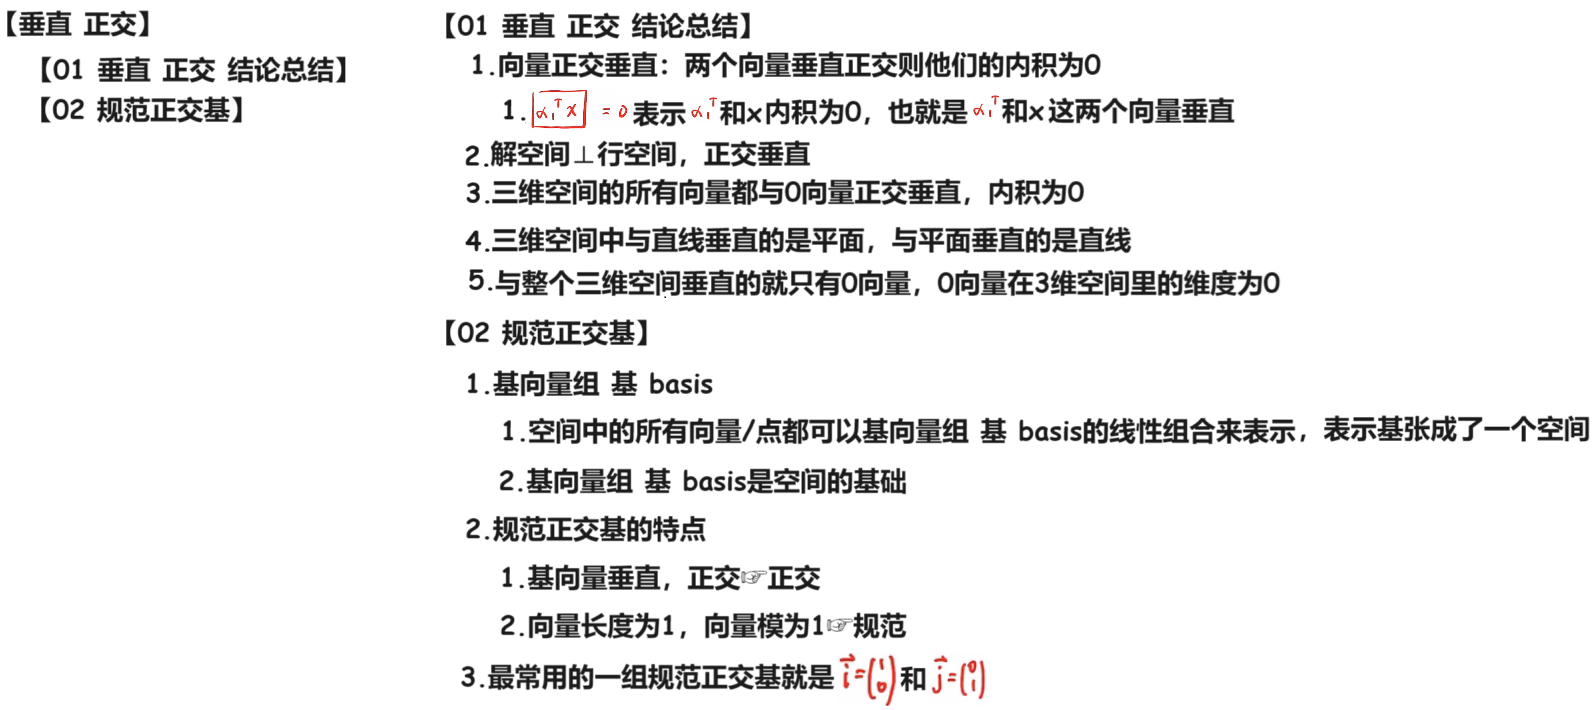
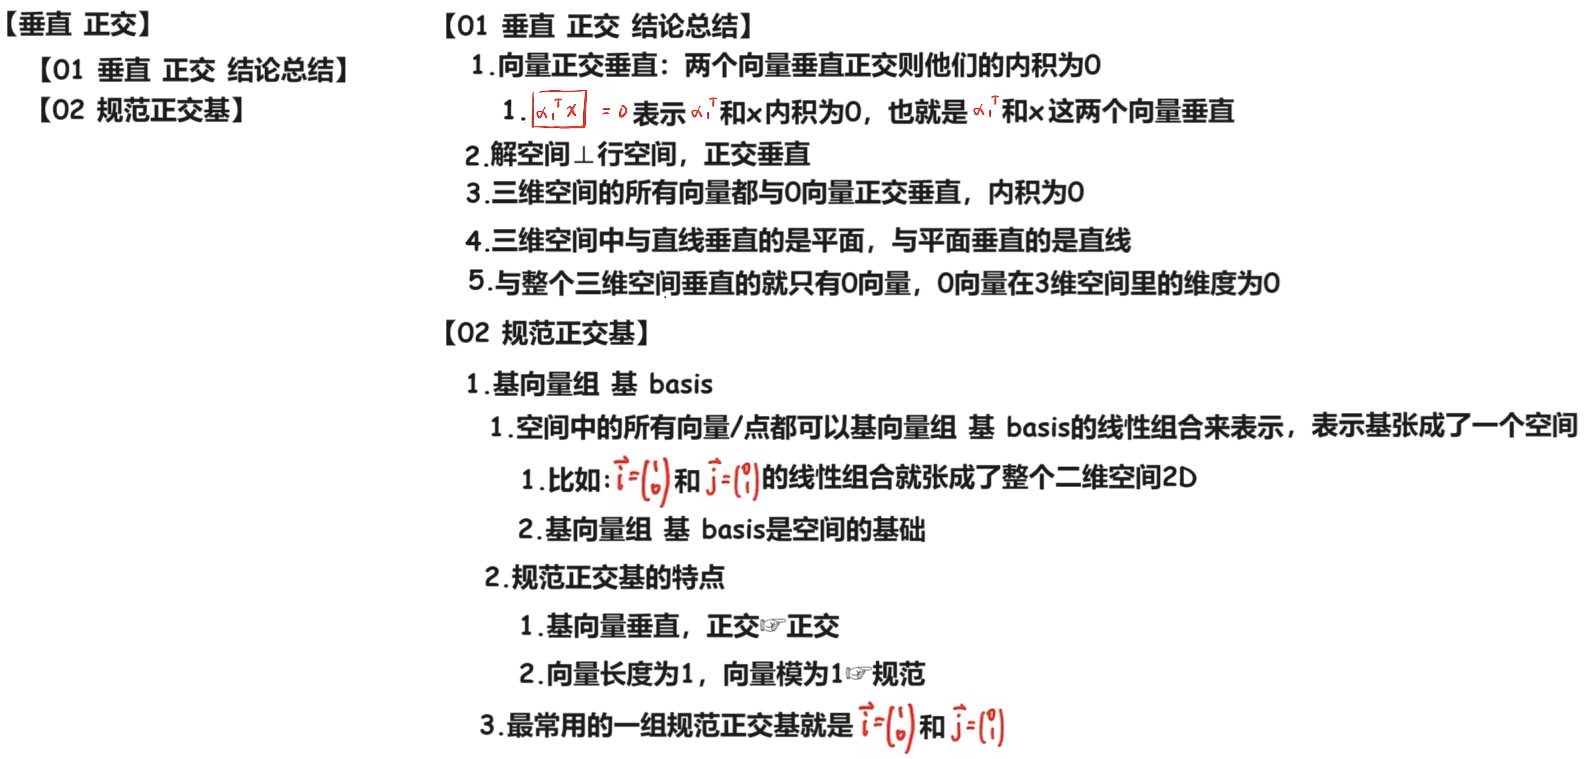
240306

Changed region(s): [[0.2772, 0.0, 1.0, 0.9915], [0.0, 0.0, 0.2156, 0.1859]]

diff --git a/02 线代/02 知识点/10 向量组的线性组合 240306/02 Doc.md b/02 线代/02 知识点/10 向量组的线性组合 240306/02 Doc.md
@@ -1,3 +1,3 @@
 # 01 向量组的线性组合
 
-<img src="https://cvp.oss-cn-shanghai.aliyuncs.com/picgo/202403061553737.png" alt="image-20240306155320602" style="zoom:50%;" />
+<img src="https://cvp.oss-cn-shanghai.aliyuncs.com/picgo/202403061559221.png" alt="image-20240306155914096" style="zoom:50%;" />

diff --git a/02 线代/02 知识点/07 垂直  正交 240306/01 Doc.md b/02 线代/02 知识点/07 垂直  正交 240306/01 Doc.md
@@ -1,3 +1,3 @@
 # 垂直 正交
 
-<img src="https://cvp.oss-cn-shanghai.aliyuncs.com/picgo/202403061528384.png" alt="image-20240306152800275" style="zoom:50%;" />
+<img src="https://cvp.oss-cn-shanghai.aliyuncs.com/picgo/202403061558713.png" alt="image-20240306155858592" style="zoom:50%;" />
